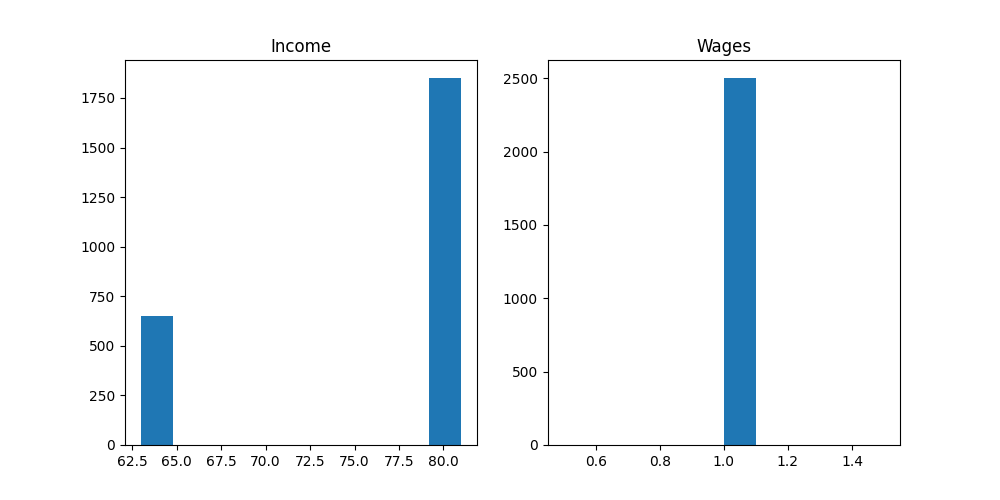
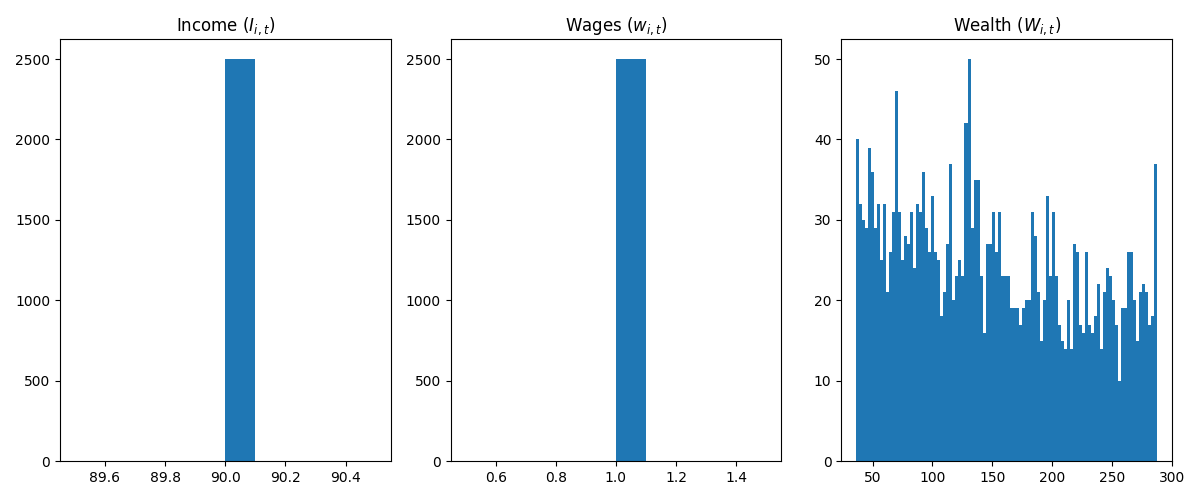
Revised errors, tried to fix some bugs

diff --git a/plotting/plot_final_dists.py b/plotting/plot_final_dists.py
@@ -9,13 +9,18 @@ def plot_final_dist():
 
     # print(df.head())
 
-    fig, [ax1, ax2]= plt.subplots(1,2, figsize=(10,5))
+    fig, [ax1, ax2, ax3]= plt.subplots(1, 3, figsize=(12,5))
 
     ax1.hist(df.all_I)
-    ax1.set_title('Income')
+    ax1.set_title('Income ($I_{i,t}$)')
 
     ax2.hist(df.all_w)
-    ax2.set_title('Wages')
+    ax2.set_title('Wages ($w_{i,t}$)')
+
+    ax3.hist(df.all_W, bins=100)
+    ax3.set_title('Wealth ($W_{i,t}$)')
+
+    plt.tight_layout()
 
     plt.savefig('plots/final_dist.png')
 
